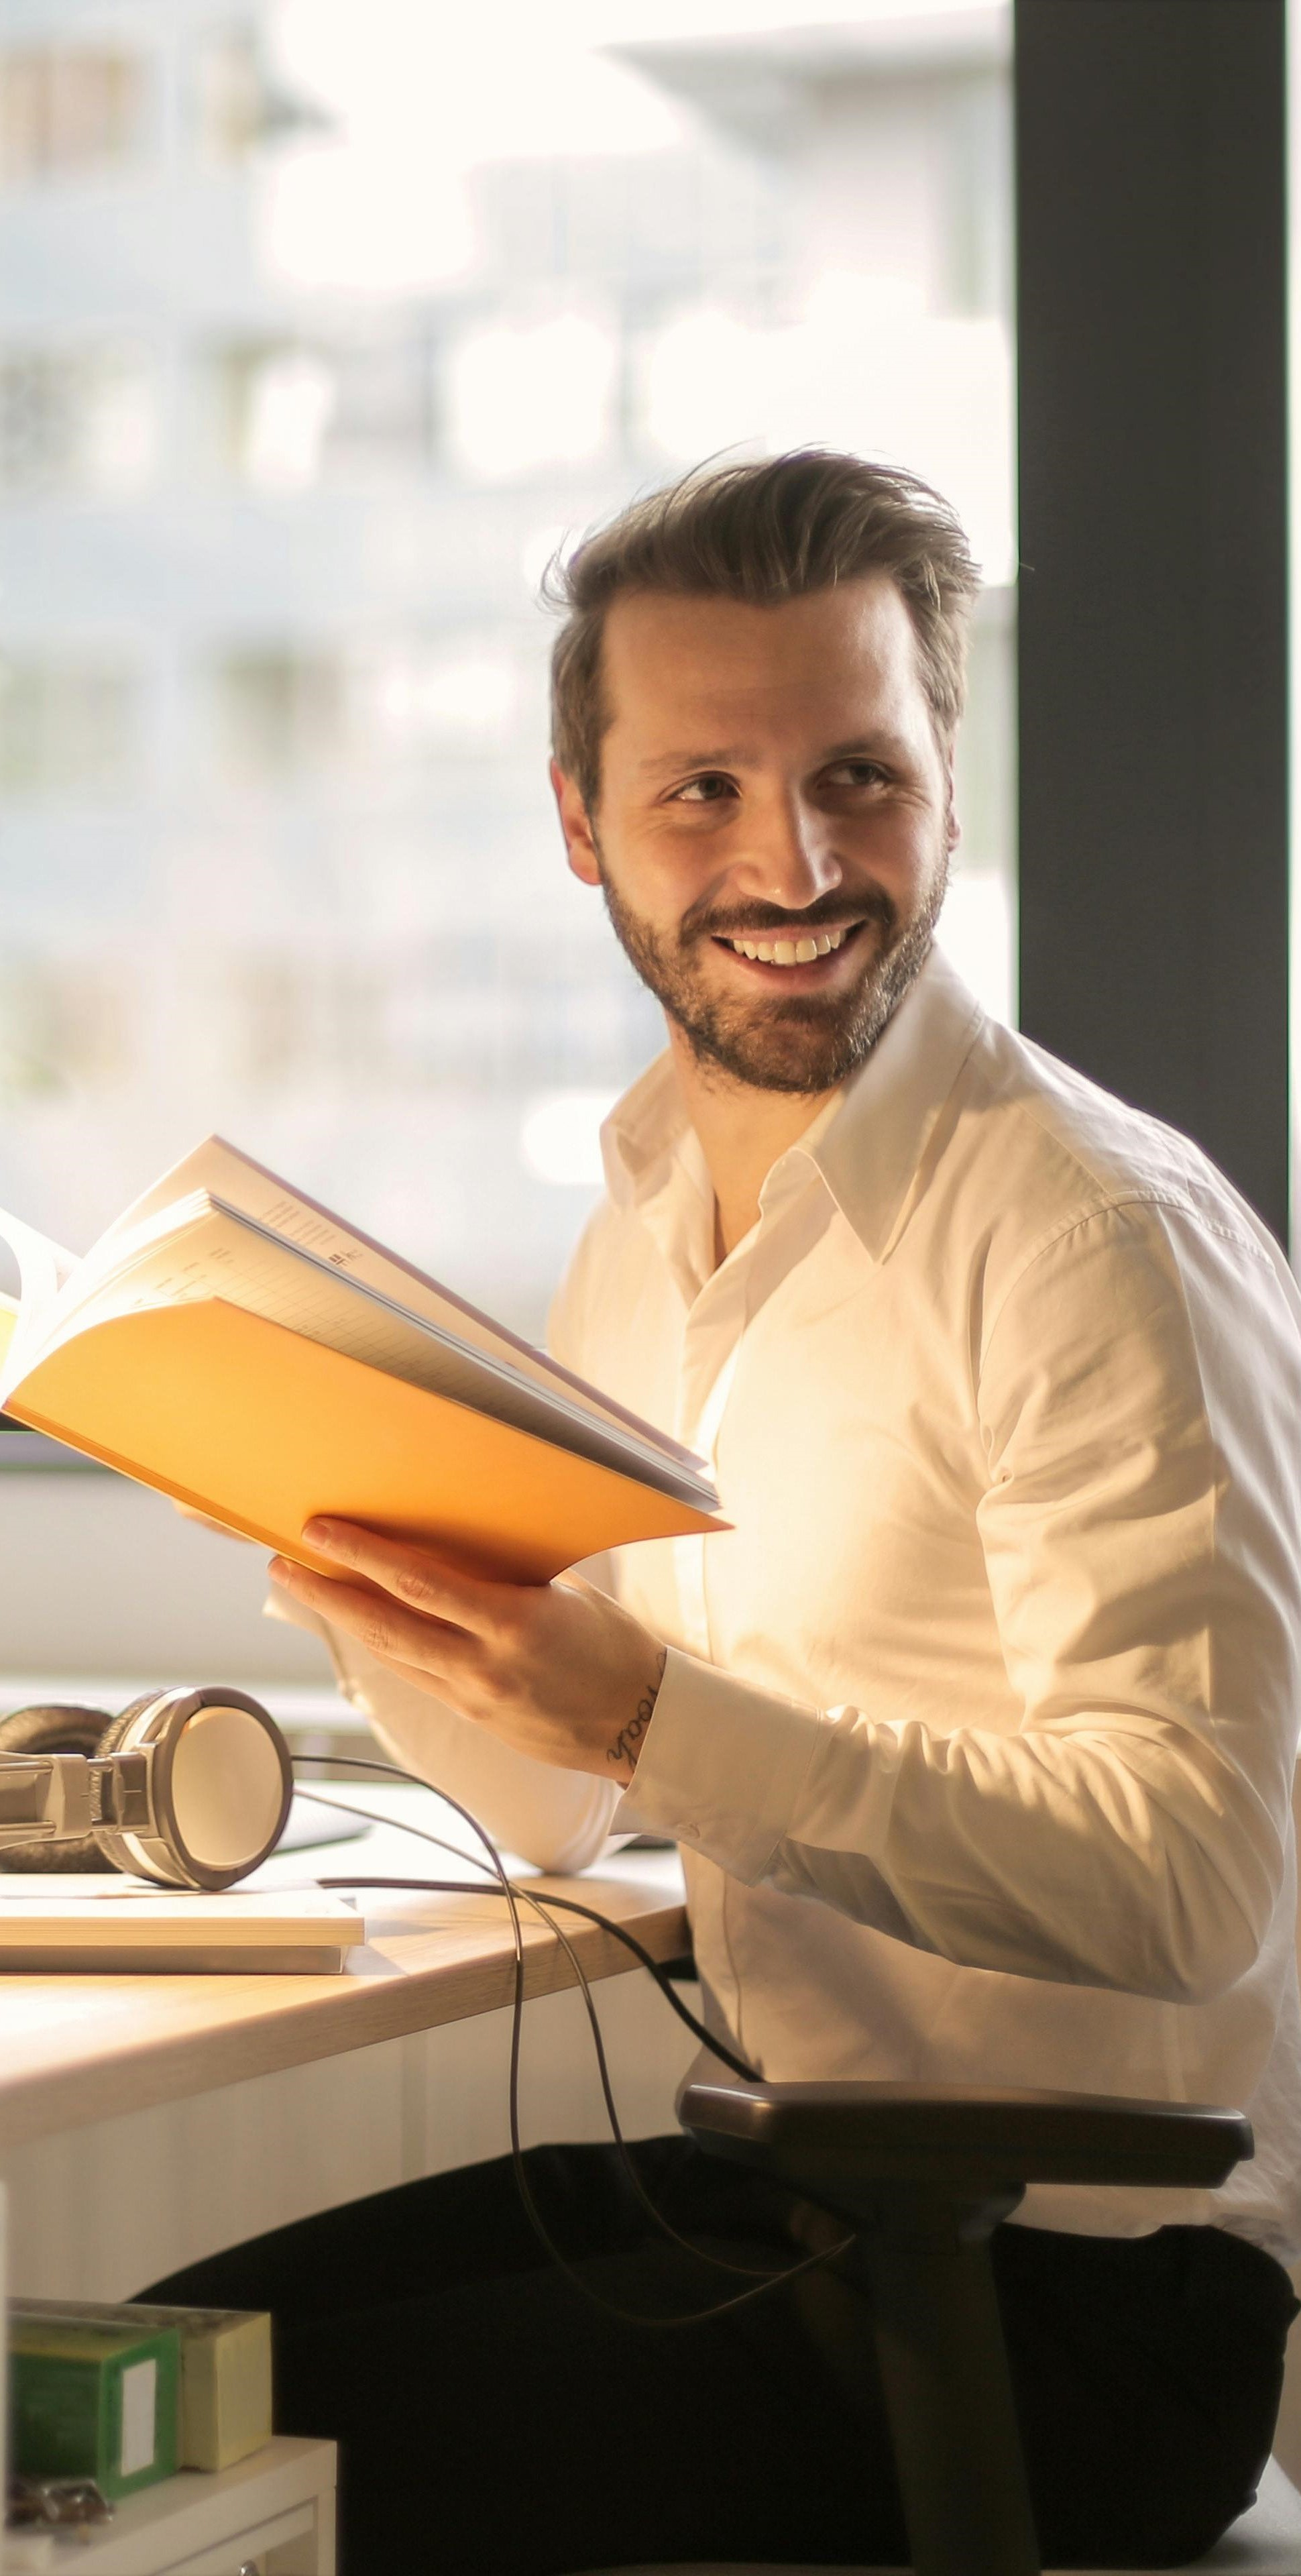
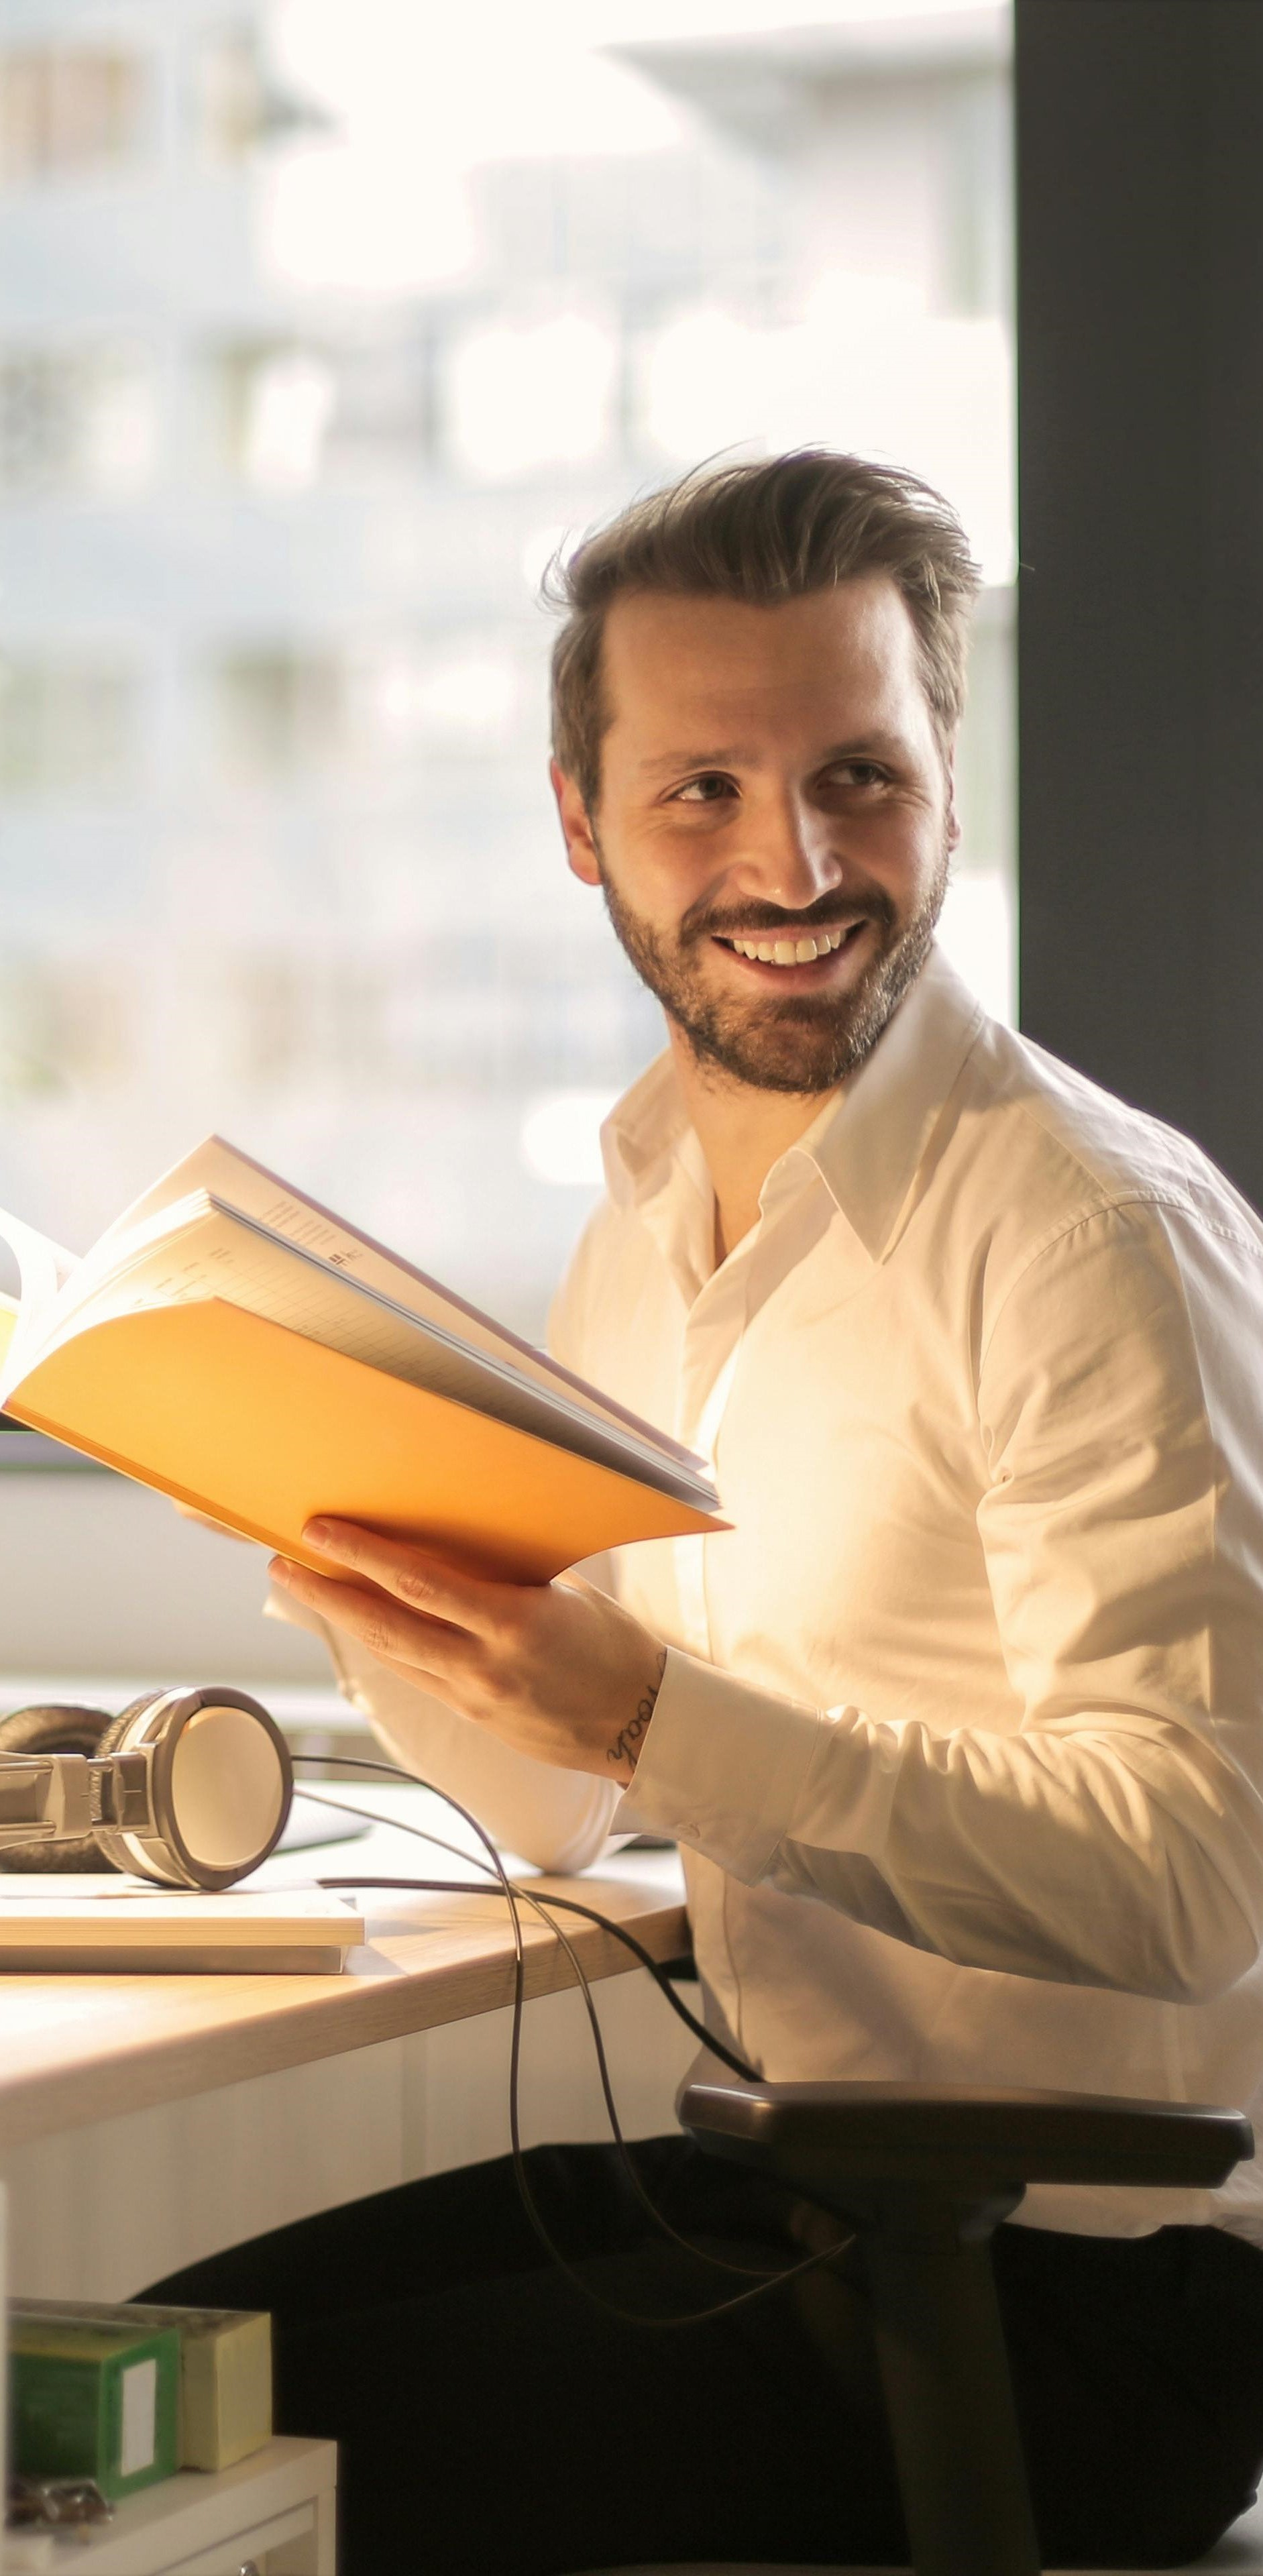
add background image to header

diff --git a/index.html b/index.html
@@ -17,13 +17,13 @@
     <header>
         <div class="portrait">
             <picture>
-                <img src="assets/not-cropped.jpg" alt="">
-                <div class="name">Ashley Williams</div>
+                <img src="assets/zoom-out.jpg" alt="">
+                <h1 class="name">Ashley Williams</h1>
             </picture>
         </div>
         <div class="about">
             <h2>About me</h2>
-            <div>Lorem ipsum dolor sit amet, consectetur adipisicing elit. At quos nisi unde velit tempore nihil
+            <div class="textAbout">Lorem ipsum dolor sit amet, consectetur adipisicing elit. At quos nisi unde velit tempore nihil
                 obcaecati consequuntur laudantium modi, quibusdam nobis sequi accusamus est harum totam cumque iste
                 autem eum.</div>
             <div class="aboutLinks">
@@ -151,7 +151,7 @@
         </div>
         <div>
             <picture>
-                <img src="assets/zoom-in.jpg" alt="">
+                <img src="assets/cropped.jpg" alt="">
             </picture>
         </div>
 

diff --git a/style.css b/style.css
@@ -4,11 +4,36 @@
     box-sizing: border-box;
 }
 
-img {
-    height: 20px;
+.portrait img {
+    width: 80%;
+    height: auto;
+    display: block;
+    margin: auto;
 }
 
 
+header {
+    margin-bottom: 3rem;
+    padding-top: 2rem;
+    background-image: url(assets/background.jpg);
+    background-repeat: no-repeat;
+    background-size: 100% 70%;
+}
+
+.about {
+    display: flex;
+    flex-direction: column;
+    align-items: center;
+    gap: 1rem;
+}
+
+.textAbout {
+    font-size: 1.2rem;
+}
+
+img {
+    height: 20px;
+}
 
 h2 {
     text-align: center;
